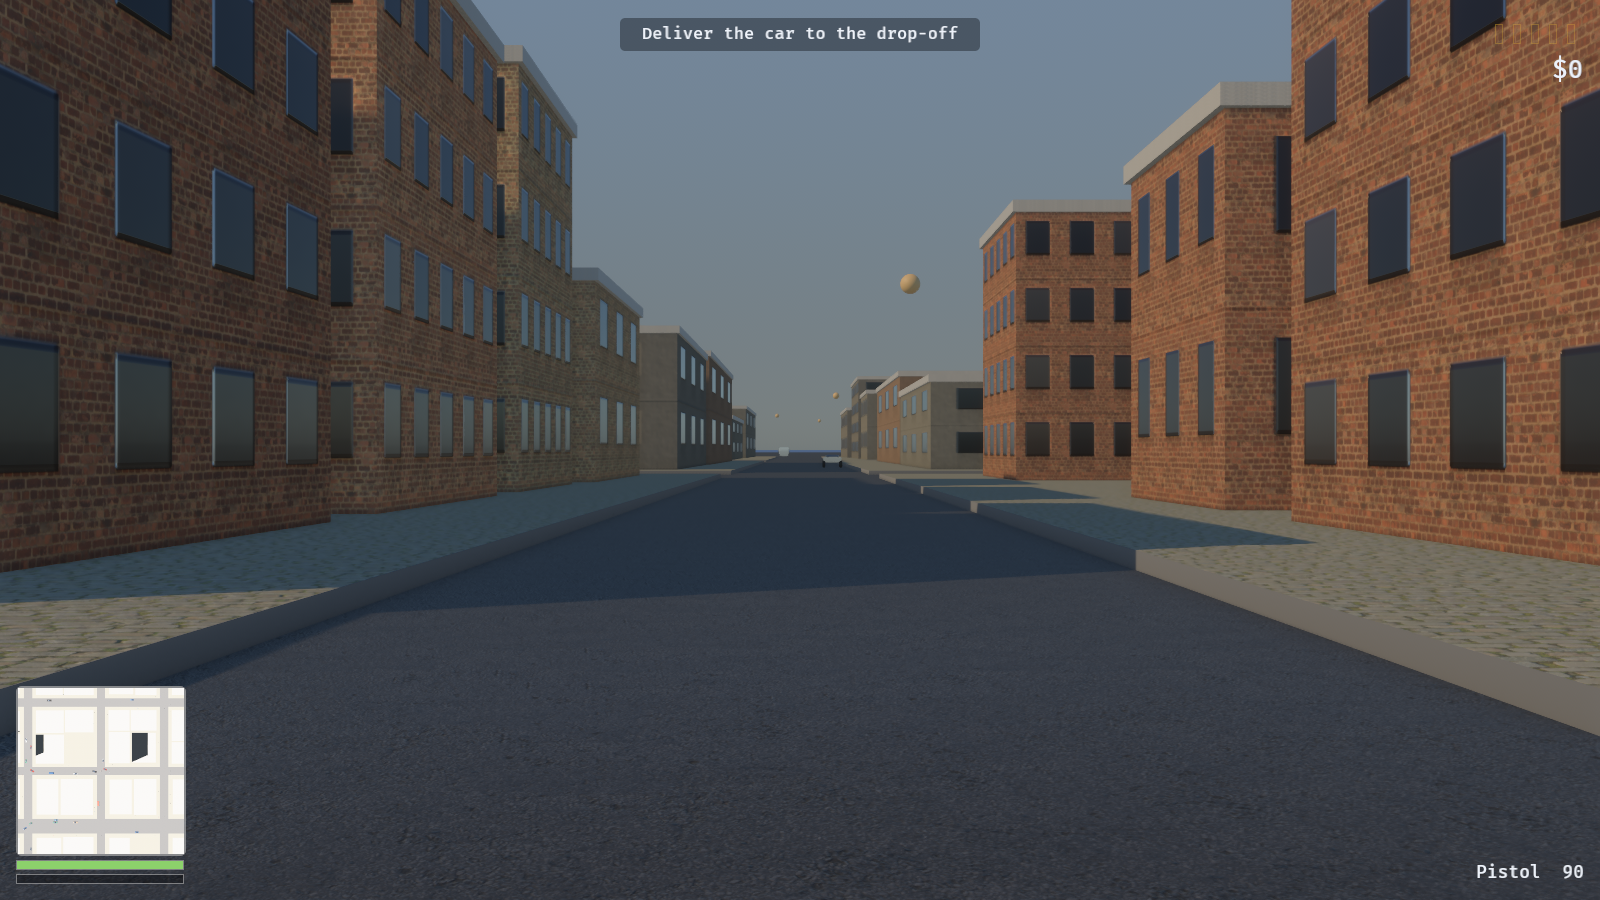
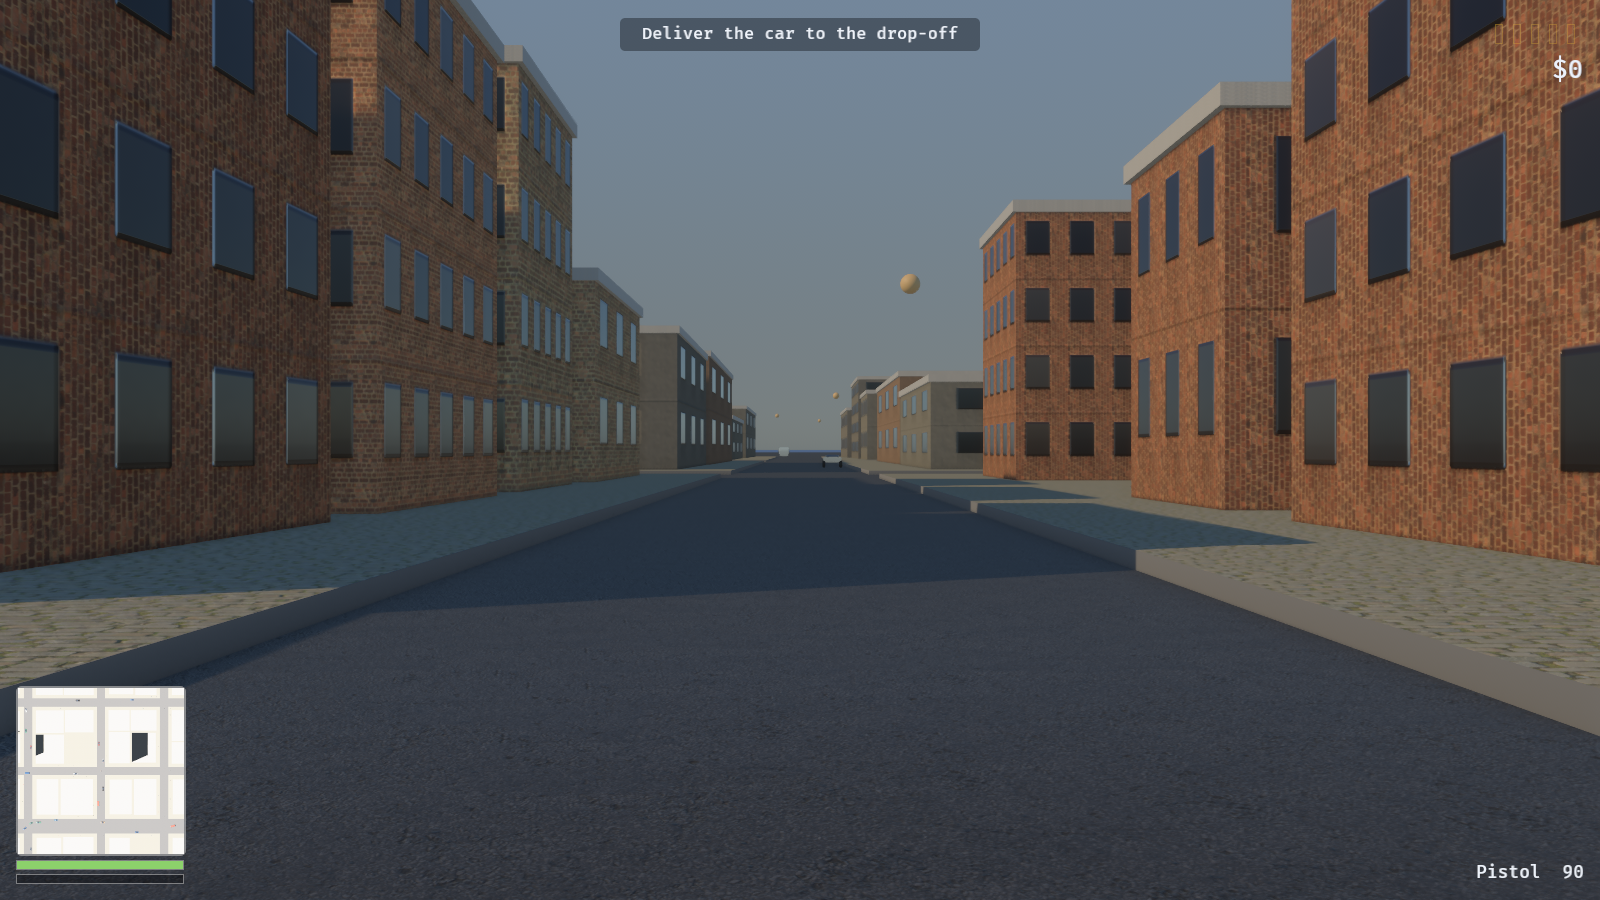
Stop every brick wall being the same photograph
One scanned set has to furnish a whole district, so the variety has to
come from how it is used rather than from how many there are. Each of a
district's four palette slots now dresses the grain differently: a
different tile size, and a quarter turn on half of them.

Scale is the strongest lever available. The same brick at 1.75m and at
3.0m reads as two different bricks, because what the eye measures is the
course height against the storey next to it. The quarter turn takes care
of what is left — two walls cut from one photograph stop looking like one
wall once the courses run the other way.

Both are numbers in a uniform that already exists, so the city's material
count does not move and neither does its draw call count. The relief
turns with the colour, or the mortar shadows fall across courses that are
not there.

Midtown moves to brick, so the shift from downtown concrete to the
residential streets has a middle rather than a boundary.

diff --git a/src/world/facade.rs b/src/world/facade.rs
@@ -35,7 +35,8 @@ pub struct FacadeSettings {
     /// anything in the photograph, and brighter.
     pub strength: f32,
     pub relief: f32,
-    pub _pad: f32,
+    /// Above 0.5, the grain is sampled turned ninety degrees.
+    pub swap: f32,
 }
 
 impl Default for FacadeSettings {
@@ -44,7 +45,7 @@ impl Default for FacadeSettings {
             tile: GRAIN_TILE,
             strength: 0.70,
             relief: 0.90,
-            _pad: 0.0,
+            swap: 0.0,
         }
     }
 }
@@ -80,25 +81,48 @@ impl Plugin for FacadePlugin {
 }
 
 /// Which scanned set a district's walls are made of.
-///
-/// Only two, because these are the two things a city is actually built from at
-/// this distance. Anything more is a variety problem, not a material one.
 pub fn grain_for(district: super::citygen::District) -> &'static str {
     use super::citygen::District::*;
     match district {
-        Residential => set::BRICK,
-        Downtown | Midtown | Industrial | Park => set::CONCRETE,
+        Residential | Midtown => set::BRICK,
+        Downtown | Industrial | Park => set::CONCRETE,
     }
 }
+
+/// How the grain is dressed for each of a district's palette slots.
+///
+/// One scanned set has to furnish a whole district, so the variety has to come
+/// from how it is *used*. Scale is the strongest lever — the same brick at
+/// 1.7m and at 3.0m reads as two different bricks, because what the eye
+/// measures is the course height against the storey — and a quarter turn on
+/// half of them breaks the last of the resemblance. Both are free: they are
+/// numbers in a uniform that already exists, so the city's material count does
+/// not move.
+const DRESS: [(f32, f32, bool); 4] = [
+    (1.75, 0.72, false),
+    (2.40, 0.62, true),
+    (2.05, 0.80, true),
+    (3.00, 0.66, false),
+];
 
 impl FacadeGrain {
     /// The grain for one district, or a bare extension if it was never
     /// downloaded — in which case the shader multiplies by a white texture and
     /// the painted facade shows through untouched.
-    pub fn for_district(library: &MaterialLibrary, district: super::citygen::District) -> Self {
+    pub fn for_district(
+        library: &MaterialLibrary,
+        district: super::citygen::District,
+        palette: usize,
+    ) -> Self {
         let scanned = library.get(grain_for(district));
+        let (tile, strength, swap) = DRESS[palette % DRESS.len()];
         Self {
-            settings: FacadeSettings::default(),
+            settings: FacadeSettings {
+                tile,
+                strength,
+                swap: if swap { 1.0 } else { 0.0 },
+                ..FacadeSettings::default()
+            },
             color: scanned.map(|s| s.color.clone()),
             normal: scanned.map(|s| s.normal.clone()),
         }
@@ -120,10 +144,37 @@ mod tests {
     use super::*;
 
     #[test]
-    fn brick_goes_on_houses_and_concrete_on_everything_else() {
+    fn brick_goes_where_people_live_and_concrete_where_they_work() {
         assert_eq!(grain_for(District::Residential), set::BRICK);
+        assert_eq!(grain_for(District::Midtown), set::BRICK);
         assert_eq!(grain_for(District::Downtown), set::CONCRETE);
         assert_eq!(grain_for(District::Industrial), set::CONCRETE);
+    }
+
+    #[test]
+    fn no_two_palette_slots_are_dressed_the_same() {
+        // The whole point of the dressing table is that a district's four
+        // slots do not look like four copies of one photograph. Two slots
+        // agreeing on both scale and orientation would be exactly that.
+        for (i, a) in DRESS.iter().enumerate() {
+            for b in &DRESS[i + 1..] {
+                assert!(
+                    (a.0 - b.0).abs() > 0.15 || a.2 != b.2,
+                    "two slots share a dressing: {a:?} and {b:?}"
+                );
+            }
+        }
+    }
+
+    #[test]
+    fn every_dressing_is_a_usable_one() {
+        for (tile, strength, _) in DRESS {
+            assert!(
+                (1.0..=4.0).contains(&tile),
+                "a wall grain tiled at {tile}m is either mush or wallpaper"
+            );
+            assert!((0.0..=1.0).contains(&strength));
+        }
     }
 
     #[test]

diff --git a/src/world/buildings.rs b/src/world/buildings.rs
@@ -229,10 +229,11 @@ pub fn build_assets(
 
     let mut building = Vec::with_capacity(districts.len() * PALETTE_SIZE as usize * CLASS_COUNT);
     for district in districts {
-        // The wall grain is a property of the district, not of the building:
-        // houses are brick, everything else is concrete.
-        let grain = super::facade::FacadeGrain::for_district(library, district);
-        for color in palette(district) {
+        for (slot, color) in palette(district).into_iter().enumerate() {
+            // The grain is the district's, but how it is dressed — scale, and
+            // whether it is turned — belongs to the palette slot, so a street
+            // of one district is not a street of one photograph.
+            let grain = super::facade::FacadeGrain::for_district(library, district, slot);
             for (base, emissive, surface, normal) in &facades {
                 building.push(facades_out.add(super::facade::FacadeMaterial {
                     base: StandardMaterial {

diff --git a/README.md b/README.md
@@ -150,6 +150,13 @@ a two-storey house and a forty-storey tower share one material. Anchoring it to
 the building instead would need a size bucket per material and take the city
 from twenty-odd draw calls to several hundred.
 
+One set has to furnish a whole district, so the variety comes from how it is
+used: each of a district's four palette slots dresses the grain at a different
+scale, and turns half of them a quarter turn. Scale is the strongest lever,
+because what the eye measures is the course height against the storey. Both are
+numbers in a uniform that already exists, so the city's material count does not
+move.
+
 The shader picks one projection rather than blending three. Every wall in this
 city stands on the street grid, so the dominant axis of the normal *is* the
 plane the wall lies in — there is no diagonal face for a triplanar blend's
@@ -211,7 +218,9 @@ pursuit, and everything but the player's own car is positioned in the world.
   Scanning them needs a custom material with a detail UV; see above.
 - Bodywork has no crease lines. The cross-sections give a shoulder that turns
   quickly, which reads as one, but nothing in the mesh is a hard edge.
-- One scanned set per surface, so a whole district is built of the same brick.
+- One scanned set per surface. A district's four palette slots dress it at
+  different scales and orientations, which is most of the way there, but every
+  brick wall in the city is still the same photograph underneath.
 - Damage does not change how a car collides: dents move metal, never the box
   the physics uses. Rebuilding a convex hull per impact is the alternative.
 
